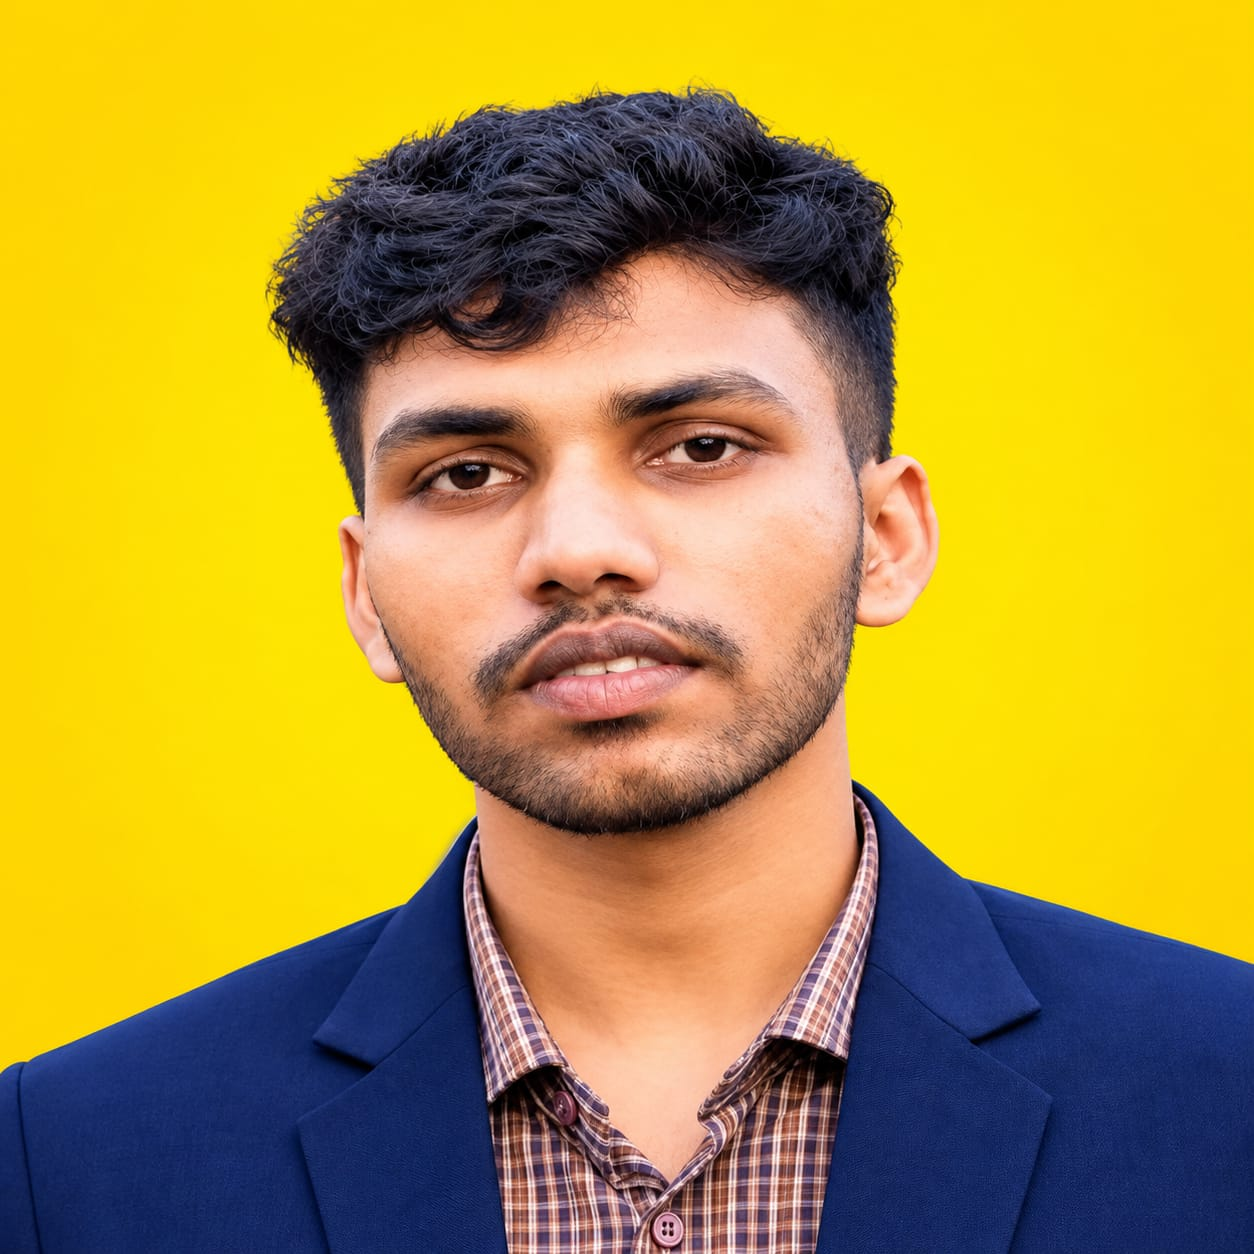
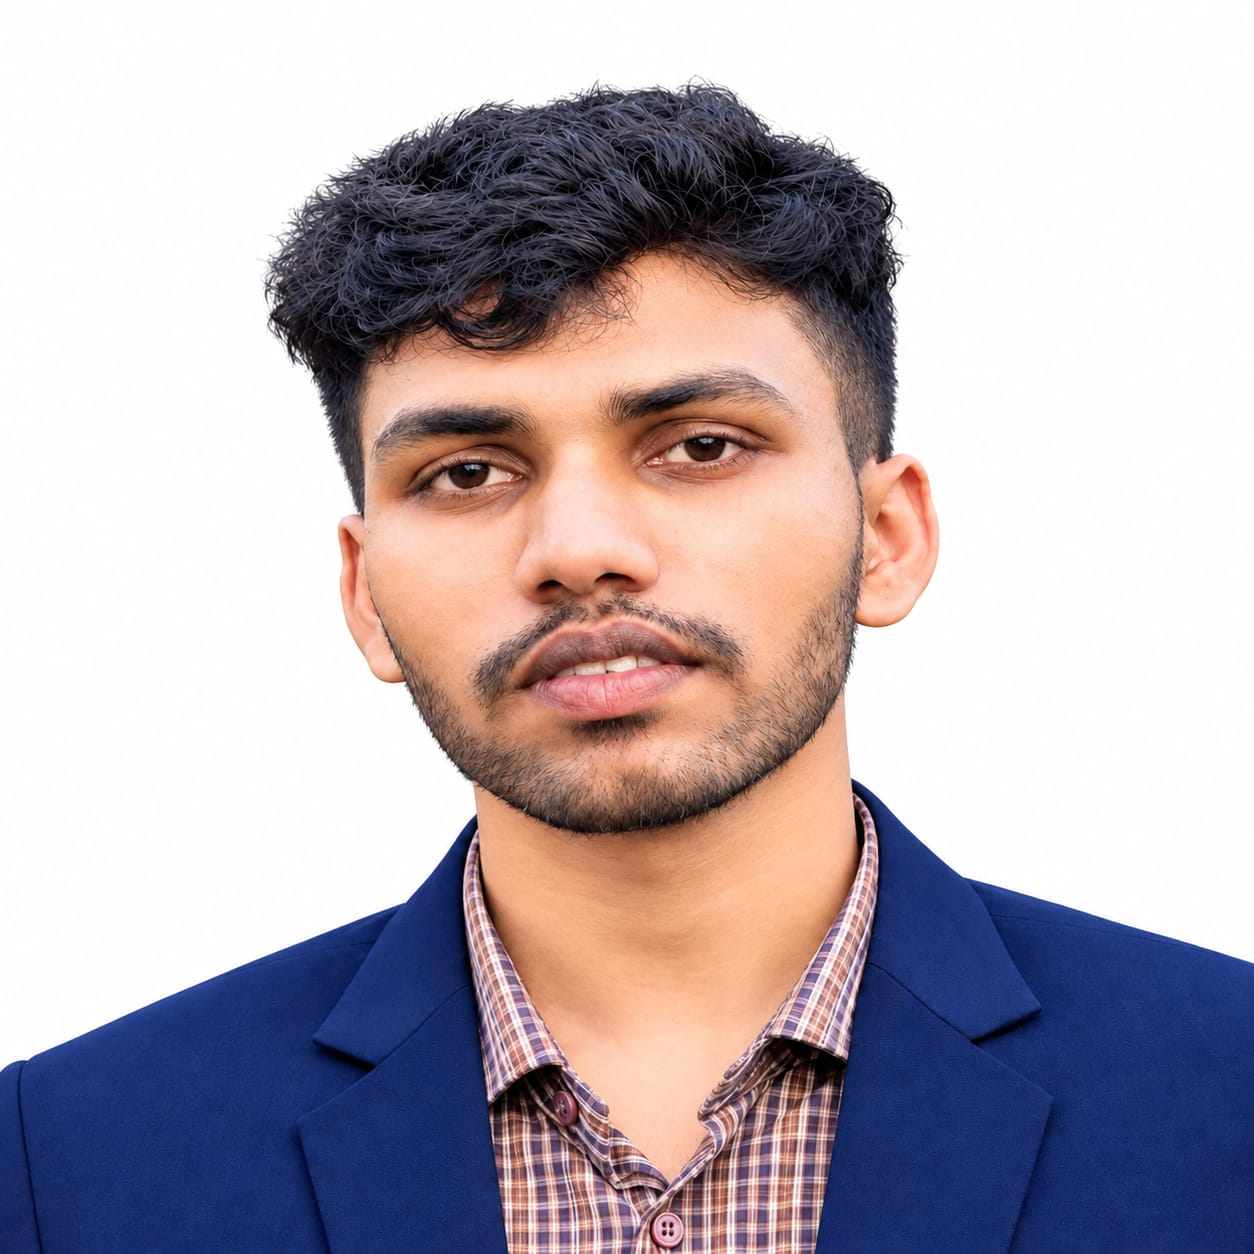
final touch

diff --git a/src/components/Skills.tsx b/src/components/Skills.tsx
@@ -1,16 +1,6 @@
-import type { CSSProperties } from "react";
-import { Layers, Server, Wrench } from "lucide-react";
-import { skillGroups, type SkillGroupIcon } from "@/data/portfolio";
+import { skills } from "@/data/portfolio";
 import { SectionHeading } from "@/components/ui/SectionHeading";
 import { Reveal } from "@/components/ui/Reveal";
-
-const icons: Record<SkillGroupIcon, typeof Layers> = {
-  frontend: Layers,
-  backend: Server,
-  tools: Wrench,
-};
-
-const extras = [ "Vercel", "Git", "GitHub", "BetterAuth", "Javascript"];
 
 export function Skills() {
   return (
@@ -26,11 +16,11 @@ export function Skills() {
             eyebrow="02 — Skills"
             title={
               <>
-                A toolkit built for{" "}
-                <span className="text-gradient-accent">shipping</span>.
+                I&apos;ve been working with these{" "}
+                <span className="text-gradient-accent">Technology</span>.
               </>
             }
-            description="I pick tools for the problem, not the hype. These are the ones I reach for most."
+            description=""
           />
           <Reveal delay={120}>
             <span className="inline-flex items-center gap-2 rounded-full border border-line bg-white/[0.03] px-3.5 py-2 font-mono text-[0.66rem] uppercase tracking-[0.16em] text-muted">
@@ -40,69 +30,54 @@ export function Skills() {
           </Reveal>
         </div>
 
-        <div className="mt-12 grid gap-5 md:grid-cols-2 lg:mt-16 lg:grid-cols-3">
-          {skillGroups.map((group, index) => {
-            const Icon = icons[group.icon];
-            return (
-              <Reveal key={group.title} delay={index * 90}>
-                <div className="card-glass card-hover h-full p-6">
-                  <div className="flex items-start justify-between gap-3">
-                    <span className="flex h-11 w-11 items-center justify-center rounded-xl border border-accent/25 bg-gradient-to-br from-accent/20 to-accent-deep/10 text-accent-light">
-                      <Icon className="h-5 w-5" strokeWidth={1.7} />
-                    </span>
-                    <span className="font-mono text-[0.62rem] tracking-wider text-muted/50">
-                      0{index + 1}
-                    </span>
-                  </div>
 
-                  <h3 className="mt-5 font-display text-lg font-semibold text-cream">
-                    {group.title}
-                  </h3>
-                  <p className="mt-1.5 text-[0.82rem] leading-relaxed text-muted">
-                    {group.blurb}
-                  </p>
+    {/* // <section id="skills" className="section relative overflow-hidden">
+    //   <div
+    //     className="aurora -left-40 top-1/4 h-80 w-80 bg-accent/10"
+    //     aria-hidden="true"
+    //   /> */}
 
-                  <div className="mt-6 space-y-4">
-                    {group.skills.map((skill) => (
-                      <div key={skill.name}>
-                        <div className="flex items-baseline justify-between gap-3">
-                          <span className="text-[0.82rem] font-medium text-cream/90">
-                            {skill.name}
-                          </span>
-                          <span className="font-mono text-[0.62rem] text-muted/70">
-                            {skill.level}%
-                          </span>
-                        </div>
-                        <div className="skill-track mt-2">
-                          <div
-                            className="skill-fill"
-                            style={{ "--level": `${skill.level}%` } as CSSProperties}
-                          />
-                        </div>
-                      </div>
-                    ))}
-                  </div>
-                </div>
-              </Reveal>
-            );
-          })}
+      {/* <div className="container-x relative">
+        <Reveal className="mx-auto max-w-2xl text-center">
+          <h2 className="font-display text-4xl font-bold tracking-tight text-cream sm:text-5xl">
+            My <span className="text-gradient-accent">Skills</span>
+          </h2>
+          <span
+            className="mx-auto mt-4 block h-1 w-28 rounded-full bg-gradient-to-r from-accent via-accent-light to-sky-400"
+            aria-hidden="true"
+          />
+          <p className="mt-6 text-[0.98rem] leading-relaxed text-muted sm:text-base">
+            Technologies I&apos;ve been working with recently
+          </p>
+        </Reveal> */}
+
+        <div className="mt-12 grid grid-cols-2 gap-4 sm:grid-cols-3 sm:gap-5 lg:mt-16 lg:grid-cols-5">
+          {skills.map((skill, index) => (
+            <Reveal key={skill.name} delay={index * 60}>
+              <div className="group flex h-full flex-col items-center justify-center rounded-2xl border border-line bg-white/[0.02] px-4 py-9 text-center transition duration-300 hover:-translate-y-1 hover:border-accent/40 hover:bg-white/[0.04] hover:shadow-[0_20px_50px_-30px_rgba(139,92,246,0.6)] sm:px-6 sm:py-10">
+                <span className="flex h-16 w-16 items-center justify-center">
+                  {/* eslint-disable-next-line @next/next/no-img-element */}
+                  <img
+                    src={skill.logo}
+                    alt=""
+                    width={64}
+                    height={64}
+                    loading="lazy"
+                    className={`h-16 w-16 object-contain transition duration-300 group-hover:scale-105 ${
+                      skill.invert ? "invert" : ""
+                    }`}
+                  />
+                </span>
+                <h3 className="mt-6 font-display text-[0.95rem] font-semibold text-cream sm:text-base">
+                  {skill.name}
+                </h3>
+                <p className="mt-2 text-[0.8rem] text-muted/80">
+                  {skill.category}
+                </p>
+              </div>
+            </Reveal>
+          ))}
         </div>
-
-        <Reveal delay={120}>
-          <div className="mt-8 flex flex-wrap items-center gap-x-3 gap-y-2 rounded-2xl border border-line/70 bg-white/[0.02] px-5 py-4">
-            <span className="font-mono text-[0.66rem] uppercase tracking-[0.18em] text-muted/70">
-              Also comfortable with
-            </span>
-            {extras.map((item) => (
-              <span
-                key={item}
-                className="rounded-md border border-line bg-white/[0.03] px-2 py-1 font-mono text-[0.66rem] text-muted"
-              >
-                {item}
-              </span>
-            ))}
-          </div>
-        </Reveal>
       </div>
     </section>
   );

diff --git a/src/data/portfolio.ts b/src/data/portfolio.ts
@@ -43,7 +43,7 @@ export const profile = {
   hobbies: ["Playing Football", "Watching Anime", "Traveling", "Open source"],
 };
 
-export type SocialIcon = "github" | "linkedin" | "twitter" | "facebook";
+export type SocialIcon = "github" | "linkedin" | "x" | "facebook";
 
 export const socials: {
   label: string;
@@ -64,9 +64,9 @@ export const socials: {
     handle: "in/mdsagarahammed0",
   },
   {
-    label: "Twitter",
+    label: "X",
     href: "https://x.com/MdSagarAhammed0",
-    icon: "twitter",
+    icon: "x",
     handle: "@MdSagarAhammed0",
   },
   // {
@@ -96,46 +96,75 @@ export const stack = [
   "Rest API",
 ];
 
-export type SkillGroupIcon = "frontend" | "backend" | "tools";
+export type SkillCategory = "Frontend" | "Backend" | "Tools";
 
-export const skillGroups: {
-  title: string;
-  icon: SkillGroupIcon;
-  blurb: string;
-  skills: { name: string; level: number }[];
-}[] = [
+export type Skill = {
+  name: string;
+  category: SkillCategory;
+  logo: string;
+  /** Invert monochrome logos that ship black so they read on the dark theme. */
+  invert?: boolean;
+};
+
+export const skills: Skill[] = [
   {
-    title: "Frontend",
-    icon: "frontend",
-    blurb: "Interfaces that feel fast, accessible and intentional.",
-    skills: [
-      { name: "React / Next.js", level: 95 },
-      { name: "TypeScript", level: 90 },
-      { name: "Tailwind CSS", level: 94 },
-      // { name: "Framer Motion", level: 80 },
-    ],
+    name: "HTML",
+    category: "Frontend",
+    logo: "/tech/html5-original.svg",
   },
   {
-    title: "Backend",
-    icon: "backend",
-    blurb: "APIs and data layers built to stay reliable as they grow.",
-    skills: [
-      { name: "Node.js / Express", level: 88 },
-      // { name: "PostgreSQL / Prisma", level: 84 },
-      { name: "MongoDB", level: 86 },
-      { name: "REST & Auth (JWT)", level: 82 },
-    ],
+    name: "CSS",
+    category: "Frontend",
+    logo: "/tech/css3-original.svg",
   },
   {
-    title: "Tools & Workflow",
-    icon: "tools",
-    blurb: "The details that turn a project into a dependable product.",
-    skills: [
-      { name: "Git / GitHub", level: 92 },
-      { name: "Vercel / Deployment", level: 86 },
-      // { name: "Docker", level: 74 },
-      { name: "Figma / Design", level: 78 },
-    ],
+    name: "JavaScript",
+    category: "Frontend",
+    logo: "/tech/javascript-original.svg",
+  },
+  {
+    name: "React",
+    category: "Frontend",
+    logo: "/tech/react-original.svg",
+  },
+  {
+    name: "Next.js",
+    category: "Frontend",
+    logo: "/tech/nextjs-original.svg",
+    invert: true,
+  },
+  {
+    name: "Tailwind CSS",
+    category: "Frontend",
+    logo: "/tech/tailwindcss-original.svg",
+  },
+  {
+    name: "Node.js",
+    category: "Backend",
+    logo: "/tech/nodedotjs-original.svg",
+  },
+  {
+    name: "MongoDB",
+    category: "Backend",
+    logo: "/tech/mongodb-original.svg",
+  },
+  {
+    name: "Express.js",
+    category: "Backend",
+    logo: "/tech/logo-express-black.svg",
+    invert: true,
+  },
+  {
+    name: "GitHub",
+    category: "Tools",
+    logo: "/tech/github-original.svg",
+    invert: true,
+  },
+  {
+    name: "TypeScript",
+    category: "Frontend",
+    logo: "/tech/ts-logo-256.svg",
+    
   },
 ];
 

diff --git a/src/components/SocialLinks.tsx b/src/components/SocialLinks.tsx
@@ -1,10 +1,17 @@
-import { Facebook, Github, Linkedin, Twitter, type LucideIcon } from "lucide-react";
+import type { ComponentType } from "react";
+import { Facebook, Github, Linkedin } from "lucide-react";
 import { socials, type SocialIcon } from "@/data/portfolio";
+import { XIcon } from "@/components/ui/XIcon";
 
-const iconMap: Record<SocialIcon, LucideIcon> = {
+type SocialIconComponent = ComponentType<{
+  className?: string;
+  strokeWidth?: number;
+}>;
+
+const iconMap: Record<SocialIcon, SocialIconComponent> = {
   github: Github,
   linkedin: Linkedin,
-  twitter: Twitter,
+  x: XIcon,
   facebook: Facebook,
 };
 

diff --git a/src/components/ui/XIcon.tsx b/src/components/ui/XIcon.tsx
@@ -1,0 +1,16 @@
+import type { SVGProps } from "react";
+
+/** The current X (formerly Twitter) brand mark. */
+export function XIcon({ className, ...props }: SVGProps<SVGSVGElement>) {
+  return (
+    <svg
+      viewBox="0 0 24 24"
+      fill="currentColor"
+      aria-hidden="true"
+      className={className}
+      {...props}
+    >
+      <path d="M18.901 1.153h3.68l-8.04 9.19L24 22.846h-7.406l-5.8-7.584-6.638 7.584H.474l8.6-9.83L0 1.154h7.594l5.243 6.932ZM17.61 20.644h2.039L6.486 3.24H4.298Z" />
+    </svg>
+  );
+}

diff --git a/src/components/Projects.tsx b/src/components/Projects.tsx
@@ -15,7 +15,7 @@ export function Projects() {
             title={
               <>
                 Selected work,{" "}
-                <span className="text-gradient-accent">shipped</span>.
+                <span className="text-gradient-accent">deployed</span>.
               </>
             }
             description="A few builds that show how was my web development journey, my learnings, my expertise and my hands-on skills as an aspiring software engineer."
